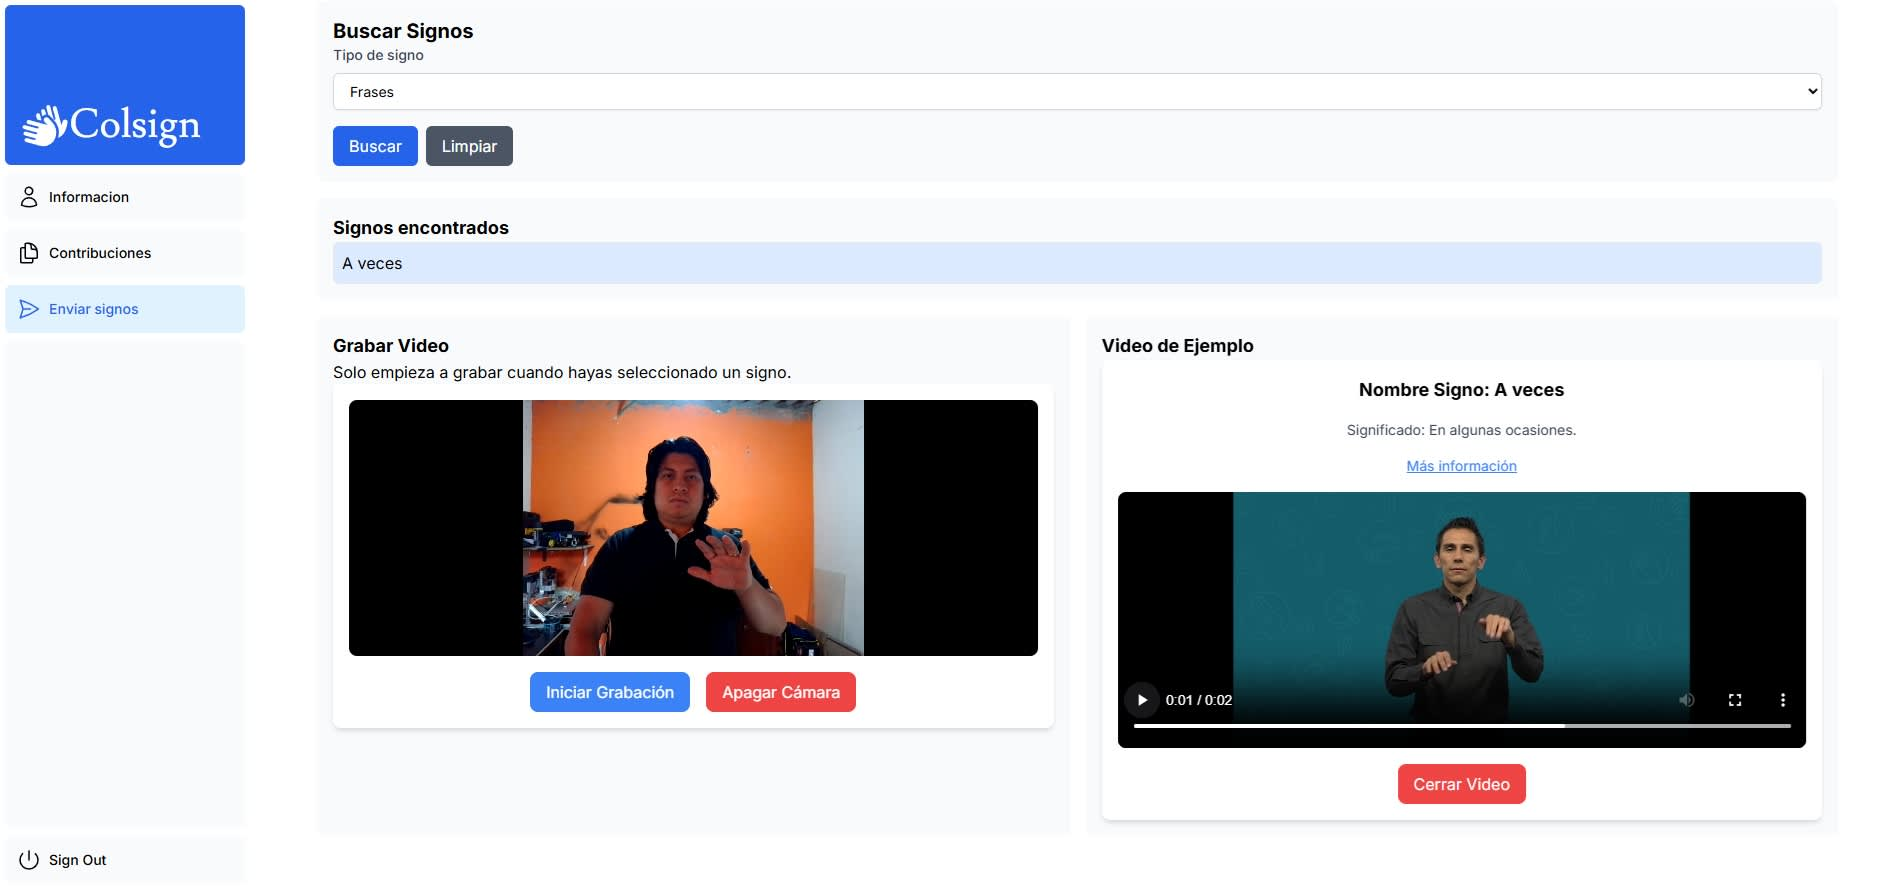
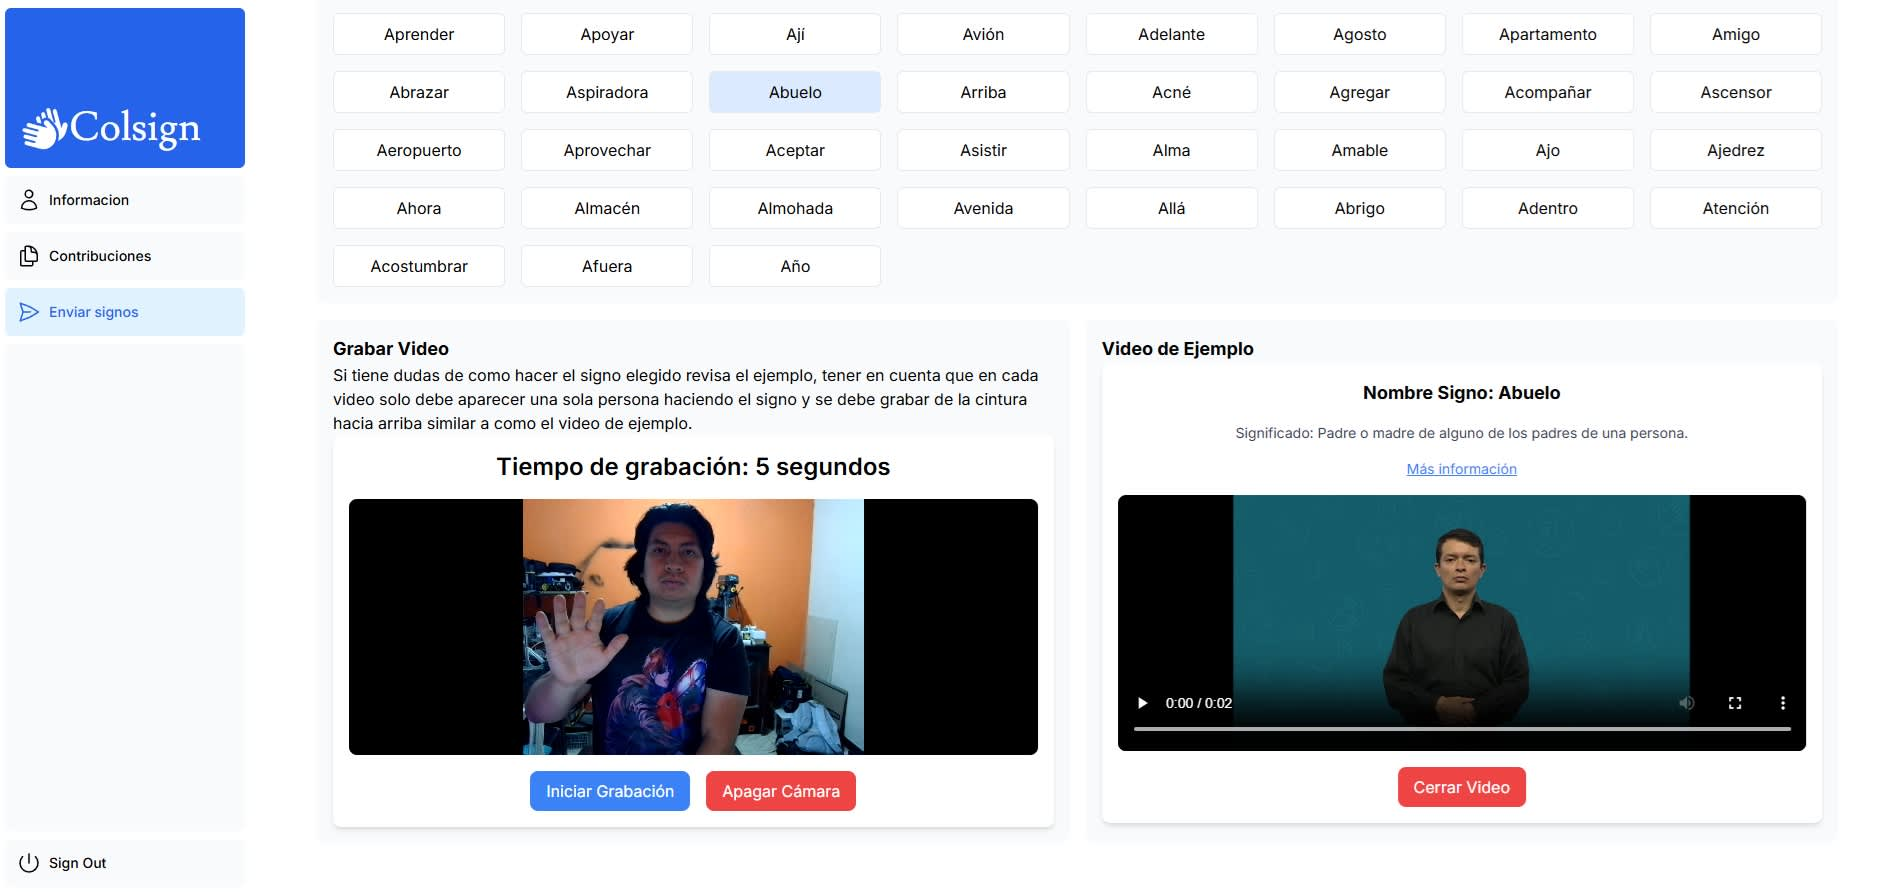
Refactor code structure for improved readability and maintainability

diff --git a/app/information/help/page.tsx b/app/information/help/page.tsx
@@ -34,7 +34,7 @@ export default function HelpPage() {
         />        
       </div>
       <br />   
-      <p className="text-gray-700">4. Al llegar a este punto ya puedes empezar a compartir tus videos de signos serán parte del conjunto de datos de entrenamiento una vez sean verificados, y abras aportado a esta iniciativa, para hacer esto debes presionar el botón llamado “Enviar signos” esta se llevara a la siguiente interfaz:</p>
+      <p className="text-gray-700">4. Al llegar a este punto ya puedes empezar a compartir tus videos de signos que serán parte del conjunto de datos de entrenamiento una vez sean verificados, para hacer esto debes presionar el botón llamado “Enviar signos” esta se llevará a la siguiente interfaz:</p>
       <br />
       <div className="flex justify-center">
         <Image
@@ -58,7 +58,7 @@ export default function HelpPage() {
         />        
       </div>
       <br />
-      <p className="text-gray-700">6. Una vez selecciones el tipo de signo debes presionar el botón buscar y el sistema te traerá todos los signos disponibles para el tipo de signos seleccionado como se ve continuación:</p>
+      <p className="text-gray-700">6. Una vez selecciones el tipo de signo puedes dar en el botón buscar, y este te tarra todos los signos disponibles en esa categorías, si deseas filtrar más puedes agregar una letra de la A-Z y de esta manera el sistema solo te mostrara los signos que comiencen por esta como se ve a continuación: </p>
       <br />
       <div className="flex justify-center">
         <Image
@@ -82,7 +82,7 @@ export default function HelpPage() {
         />        
       </div>
       <br />
-      <p className="text-gray-700">8. Al presionar los botones de Ver Ejemplo y Encender Cámara la interfaz cambia como se puede ver en la siguiente imagen, y se habilita el botón de Iniciar Grabación, una vez estes listo y hayas practicado presionar este botón e inmediatamente el sistema comienza a grabar el video se detiene automáticamente. </p>
+      <p className="text-gray-700">8. Al presionar los botones de Ver Ejemplo y Encender Cámara la interfaz cambia como se puede ver en la siguiente imagen, y se habilita el botón de Iniciar Grabación y el de Apagar Cámara. </p>
       <br />
       <div className="flex justify-center">
         <Image
@@ -94,7 +94,7 @@ export default function HelpPage() {
         />        
       </div>
       <br />
-      <p className="text-gray-700">9. Una vez el video se haya grabado el sistema te mostrara una vista y tienes dos opciones Eliminar lo cual no enviara ninguna información al sistema y puede volver a grabar, o Aceptar para que la información y tu video se envíe al sistema. </p>
+      <p className="text-gray-700">9. Una vez estes listo y hayas practicado el signo a enviar presiona el botón Iniciar Grabación el sistema indica una cuenta regresiva como se ve en la siguiente imagen para que te prepares una vez termina el conteo comienza a grabar y se detiene automáticamente para signos de caracteres el tiempo es de 3 segundos y para palabras y frases es de 5 segundos. </p>
       <br />
       <div className="flex justify-center">
         <Image
@@ -103,10 +103,10 @@ export default function HelpPage() {
           width={500}
           height={500}          
           className="w-1/2 h-auto rounded-lg shadow-md mb-4"
-        />        
+        />
       </div>
       <br />
-      <p className="text-gray-700">10. Una vez aceptes el video el sistema te mostrará un mensaje de confirmación a la cual presionar aceptar y te devolverá a la interfaz del paso 8, y puede seguir enviando videos del mismo signos o si quieres enviar un nuevo signos debes presionar el botón limpiar y volver hacer los todo nuevamente desde el paso 4. </p>
+      <p className="text-gray-700">10. Una vez el video este grabado el sistema te mostrara una vista previa y tienes dos opciones Eliminar lo cual no enviara ninguna información al sistema y puede volver a grabar, o Aceptar para que la información y tu video se envíe al sistema. </p>
       <br />
       <div className="flex justify-center">
         <Image
@@ -118,7 +118,19 @@ export default function HelpPage() {
         />        
       </div>
       <br />
-      <p className="text-gray-700">11. Por último, puedes dirigirte a la sección de Contribuciones en donde se mostrarán todos tus videos compartidos, y el estado de ellos, cabe resaltar que solo los videos verificados son los que aran parte del conjunto de datos, esto se verifica por medio de una comparación entre el enviado y el video de ejemplo, o si el usuario tiene un nivel 1 o experto en manejo de signos.</p>
+      <p className="text-gray-700">11. Una vez aceptes el video el sistema te mostrará un mensaje de confirmación a la cual presionar aceptar y te devolverá a la interfaz del paso 8, y puede seguir enviando videos del mismo signo o si quieres enviar un nuevo signo debes presionar el botón limpiar y volver hacer los todo nuevamente desde el paso 4. </p>
+      <br />
+      <div className="flex justify-center">
+        <Image
+          src="/information-resources/send-sign-8-r.jpg"
+          alt="send-sign"
+          width={500}
+          height={500}          
+          className="w-1/2 h-auto rounded-lg shadow-md mb-4"
+        />        
+      </div>
+      <br />
+      <p className="text-gray-700">12. Por último, puedes dirigirte a la sección de Contribuciones en donde se mostrarán todos tus videos compartidos, y el estado de ellos, cabe resaltar que solo los videos verificados son los que aran parte del conjunto de datos, esto se verifica por medio de una comparación entre el enviado y el video de ejemplo, o si el usuario tiene un nivel 1 o experto en manejo de signos.</p>
       <br />
       <div className="flex justify-center">
         <Image

diff --git a/app/ui/send-signs/camera-recorder.tsx b/app/ui/send-signs/camera-recorder.tsx
@@ -1,6 +1,6 @@
 "use client";
 
-import React, { useRef, useState, useCallback } from "react";
+import React, { useRef, useState, useCallback, useEffect } from "react";
 import { getStorage, ref, uploadBytes, getDownloadURL } from "firebase/storage";
 import { collection, addDoc } from "firebase/firestore";
 import { db } from "@/firebase/firebaseConfig";
@@ -12,10 +12,11 @@ interface CameraRecorderProps {
     idUser: string; // ID del usuario que envía el video
     levelId: string; // Nivel del usuario que envía el video
     type: string; // Tipo del video de ejemplo
+    duration?: number; // Duración de la grabación en milisegundos (opcional)
     onStream?: (stream: MediaStream) => void;
 }
 
-const CameraRecorder: React.FC<CameraRecorderProps> = ({ name, idSign, idUser, levelId, type }) => {
+const CameraRecorder: React.FC<CameraRecorderProps> = ({ name, idSign, idUser, levelId, type, duration }) => {
     const videoRef = useRef<HTMLVideoElement>(null);
     const mediaRecorderRef = useRef<MediaRecorder | null>(null);
     const [recording, setRecording] = useState(false);
@@ -23,6 +24,7 @@ const CameraRecorder: React.FC<CameraRecorderProps> = ({ name, idSign, idUser, l
     const [stream, setStream] = useState<MediaStream | null>(null);
     const [isCameraOn, setIsCameraOn] = useState(false);
     const [isUploading, setIsUploading] = useState(false);
+    const [countdown, setCountdown] = useState<number | null>(null);
 
     // Función para iniciar la cámara
     const startCamera = useCallback(async () => {
@@ -49,7 +51,7 @@ const CameraRecorder: React.FC<CameraRecorderProps> = ({ name, idSign, idUser, l
     }, [stream]);
 
     // Función para iniciar la grabación
-    const startRecording = () => {
+    const startRecording = useCallback(() => {
         if (!stream) return;
 
         const recorder = new MediaRecorder(stream);
@@ -74,9 +76,26 @@ const CameraRecorder: React.FC<CameraRecorderProps> = ({ name, idSign, idUser, l
         setTimeout(() => {
             recorder.stop();
             setRecording(false);
-        }, 5000);
+        }, duration);
 
         mediaRecorderRef.current = recorder;
+    }, [stream, duration]);
+
+    // Manejar el contador regresivo
+    useEffect(() => {
+        if (countdown === null) return;
+        if (countdown === 0) {
+            setCountdown(null);
+            startRecording();
+            return;
+        }
+        const timer = setTimeout(() => setCountdown((c) => (c !== null ? c - 1 : null)), 1000);
+        return () => clearTimeout(timer);
+    }, [countdown, startRecording]);
+
+    // Modifica el botón de grabación para iniciar el contador
+    const handleStartCountdown = () => {
+        setCountdown(3);
     };
 
     // Función para eliminar la grabación
@@ -131,6 +150,7 @@ const CameraRecorder: React.FC<CameraRecorderProps> = ({ name, idSign, idUser, l
 
     return (
         <div className="flex flex-col items-center gap-4 p-4 bg-white rounded-lg shadow-md">
+            <h2 className="text-2xl font-semibold">Tiempo de grabación: {duration/1000} segundos</h2>
             {/* Botón para activar/desactivar la cámara */}
             {!isCameraOn ? (
                 <button
@@ -145,22 +165,37 @@ const CameraRecorder: React.FC<CameraRecorderProps> = ({ name, idSign, idUser, l
             ) : (
                 <>
                     {/* Video (se oculta si la cámara está apagada) */}
-                    <video ref={videoRef} autoPlay className="w-full h-64 bg-black rounded-lg" />
+                    {isCameraOn && (
+                        <div className="relative w-full h-64">
+                            <video ref={videoRef} autoPlay className="w-full h-64 bg-black rounded-lg" />
+                            {countdown !== null && (
+                                <div className="absolute inset-0 flex items-center justify-center">
+                                    <span className="text-7xl font-bold text-white drop-shadow-lg pointer-events-none select-none bg-black bg-opacity-40 rounded-full px-10 py-2">
+                                        {countdown}
+                                    </span>
+                                </div>
+                            )}
+                        </div>
+                    )}
 
                     {/* Contenedor de botones */}
                     <div className="flex gap-4">
                         {/* Botón de grabación */}
                         {!videoUrl && (
                             <button
-                                onClick={recording ? undefined : startRecording}
+                                onClick={recording || countdown ? undefined : handleStartCountdown}
                                 className={`px-4 py-2 text-white rounded-lg ${
-                                    recording || !isCameraOn
+                                    recording || countdown || !isCameraOn
                                         ? "bg-gray-400 cursor-not-allowed"
                                         : "bg-blue-500 hover:bg-blue-600"
                                 }`}
-                                disabled={recording || !isCameraOn}
+                                disabled={recording || countdown !== null || !isCameraOn}
                             >
-                                {recording ? "Grabando..." : "Iniciar Grabación"}
+                                {recording
+                                    ? "Grabando..."
+                                    : countdown
+                                    ? `Comenzando en ${countdown}...`
+                                    : "Iniciar Grabación"}
                             </button>
                         )}
 

diff --git a/app/profile/send-signs/page.tsx b/app/profile/send-signs/page.tsx
@@ -26,6 +26,7 @@ const SendSignsPage: React.FC = () => {
   const [isPending, setIsPending] = useState(false);
   const [userId, setUserId] = useState<string | null>(null); // ID del usuario autenticado
   const [levelId, setLevelId] = useState<string | null>(null); // Nivel del usuario autenticado
+  const [startsWith, setStartsWith] = useState(''); // Letra inicial del signo
 
   // Obtener el usuario autenticado y su nivel desde Firestore
   useEffect(() => {
@@ -95,7 +96,18 @@ const SendSignsPage: React.FC = () => {
     setSigns([]);
     setSelectedSign(null);
     setErrorMessage(null);
+    setStartsWith(''); // Limpiar la letra también
   };
+
+  const getRecordingDuration = (type: string) => {
+  if (type === 'Caracter') return 3000; // 3 segundos
+  if (type === 'Palabra' || type === 'Frases') return 5000; // 5 segundos
+  return 5000; // Valor por defecto
+  };
+
+  const filteredSigns = startsWith
+    ? signs.filter(sign => sign.name?.toUpperCase().startsWith(startsWith))
+    : signs;
 
   return (
     <ProtectedRoute allowedRoles={[parseInt(process.env.NEXT_PUBLIC_APP_ROLE_1), parseInt(process.env.NEXT_PUBLIC_APP_ROLE_2)]}>
@@ -118,6 +130,24 @@ const SendSignsPage: React.FC = () => {
               <option value="Palabra">Palabra</option>
               <option value="Frases">Frases</option>
             </select>
+            <div>
+              <label htmlFor="startsWith" className="block text-sm font-medium text-gray-700">
+                ¿Con qué letra empieza? (A-Z, Ñ)
+              </label>
+              <input
+                id="startsWith"
+                type="text"
+                maxLength={1}
+                value={startsWith}
+                onChange={(e) => {
+                  // Solo permitir letras A-Z y Ñ, mayúsculas
+                  const val = e.target.value.toUpperCase();
+                  if (/^[A-ZÑ]?$/.test(val)) setStartsWith(val);
+                }}
+                className="block w-20 px-3 py-2 border border-gray-300 rounded-md shadow-sm focus:ring-blue-500 focus:border-blue-500 sm:text-sm"
+                placeholder=""
+              />
+            </div>
             <div className="flex gap-2">
               <button
                 onClick={handleSearch}
@@ -138,22 +168,29 @@ const SendSignsPage: React.FC = () => {
         </div>
 
         {/* Lista de signos */}
-        {signs.length > 0 && (
+        {filteredSigns.length > 0 && (
           <div className="bg-gray-50 p-4 rounded-lg">
             <h2 className="text-lg font-bold">Signos encontrados</h2>
-            <ul className="space-y-2">
-              {signs.map((sign) => (
-                <li
+            <div className="grid grid-cols-3 sm:grid-cols-4 md:grid-cols-5 lg:grid-cols-8 gap-4">
+              {filteredSigns.map((sign) => (
+                <div
                   key={sign.id}
-                  className={`p-2 border rounded-md cursor-pointer ${
-                    selectedSign?.id === sign.id ? 'bg-blue-100' : ''
+                  className={`p-2 border rounded-md cursor-pointer text-center transition-colors ${
+                    selectedSign?.id === sign.id ? 'bg-blue-100' : 'bg-white'
                   }`}
                   onClick={() => setSelectedSign(sign)}
                 >
                   {sign.name}
-                </li>
+                </div>
               ))}
-            </ul>
+            </div>
+          </div>
+        )}
+
+        {/* Mensaje si no hay signos para la letra seleccionada */}
+        {signs.length > 0 && filteredSigns.length === 0 && startsWith && (
+          <div className="bg-yellow-100 text-yellow-800 p-4 rounded-lg mt-2 text-center">
+            No hay signos de palabras o frases que comiencen por la letra seleccionada.
           </div>
         )}
 
@@ -170,6 +207,7 @@ const SendSignsPage: React.FC = () => {
                 idUser={userId} // ID del usuario autenticado
                 levelId={levelId} // Nivel del usuario autenticado
                 type={selectedSign.type} // Tipo del signo seleccionado
+                duration={getRecordingDuration(selectedSign.type)}
               />
             </div>
 

diff --git a/app/ui/admin-signs-data/register-example-video.tsx b/app/ui/admin-signs-data/register-example-video.tsx
@@ -39,7 +39,7 @@ export default function RegisterExampleVideoForm() {
       const snapshot = await uploadBytes(storageRef, file);
       const downloadURL = await getDownloadURL(snapshot.ref);
 
-      console.log('✅ Archivo subido correctamente:', downloadURL);
+      //console.log('✅ Archivo subido correctamente:', downloadURL);
 
       // Guardar los datos en Firestore
       const videoExampleCollection = collection(db, 'video_example');
